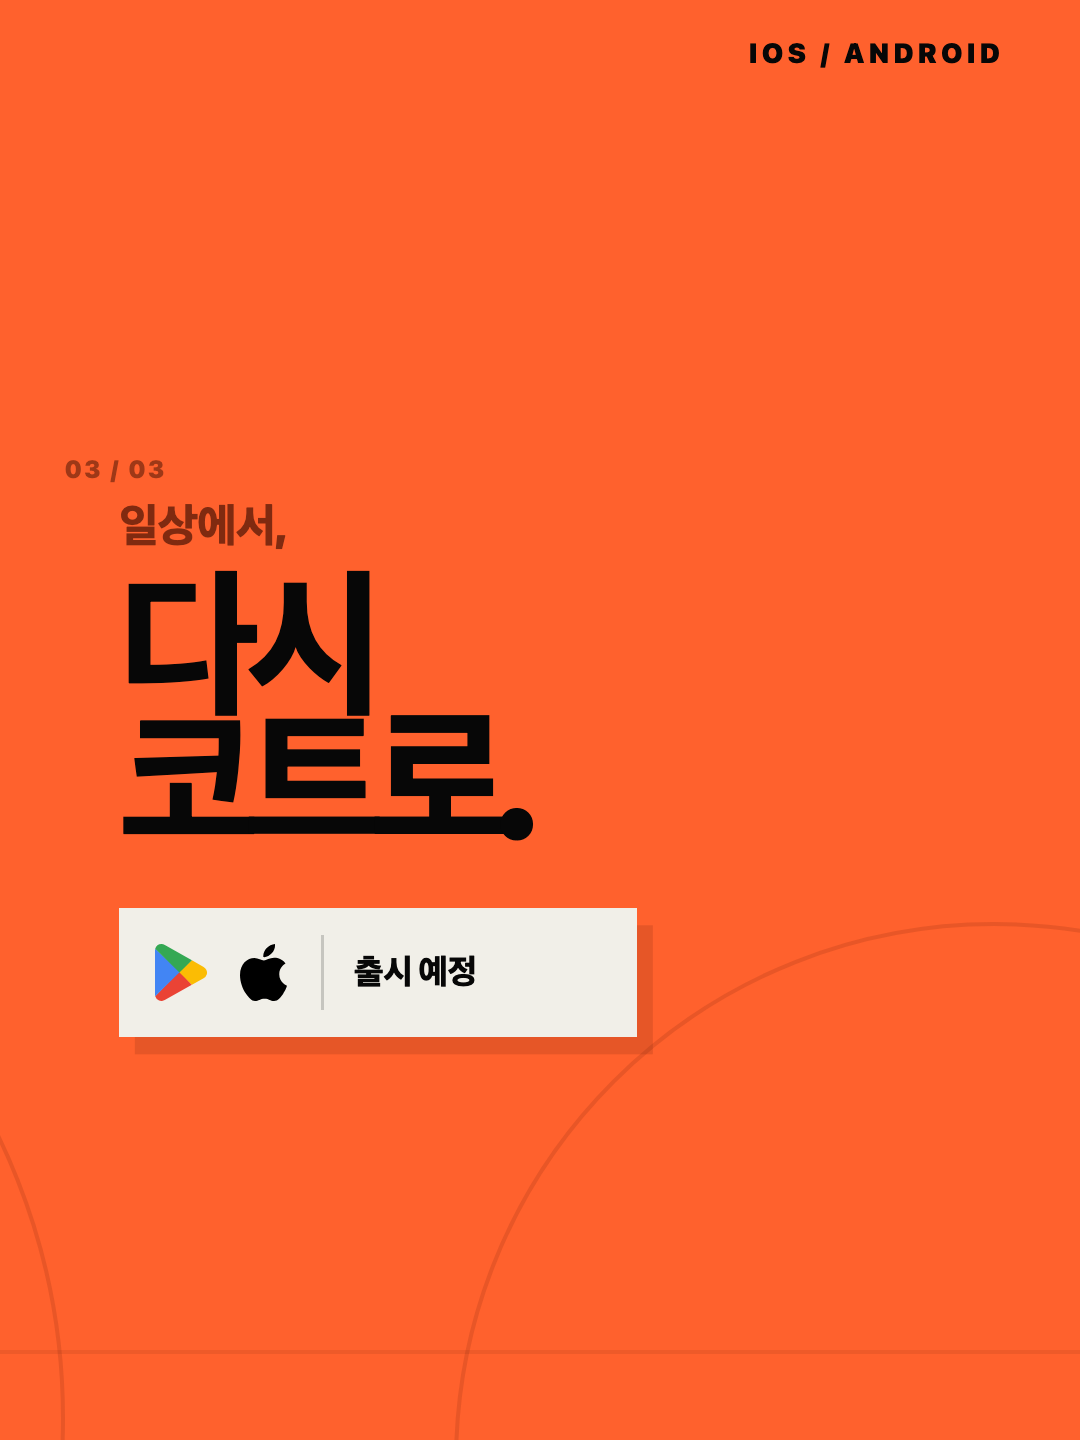
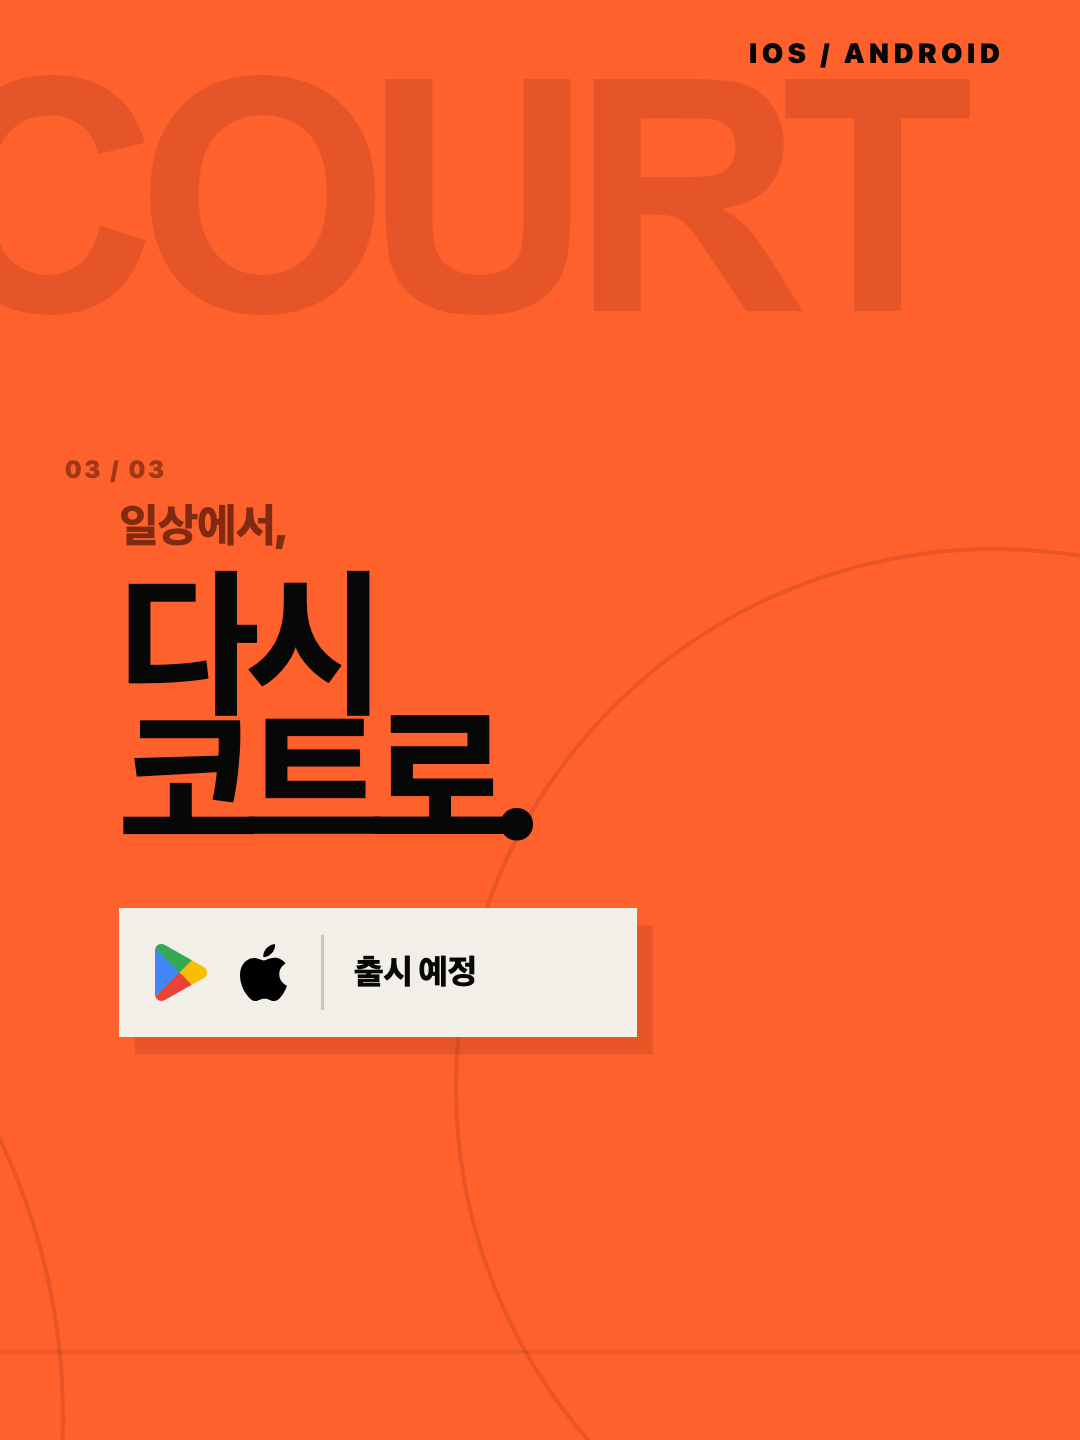
Balance right triptych panel

Changed region(s): [[0.0, 0.0312, 0.9167, 0.2188]]

diff --git a/Backcourt-Social/triptych.css b/Backcourt-Social/triptych.css
@@ -15,7 +15,7 @@ a { color: inherit; text-decoration: none; }
 .meta span { color:#8c8c8c; }
 .triptych-shell { width:100%; aspect-ratio:9/4; overflow:hidden; container-type:size; background:var(--orange); border:1px solid #292929; box-shadow:0 20px 50px rgba(0,0,0,.28); }
 .triptych { position:relative; width:100%; height:100%; overflow:hidden; color:var(--ink); background:var(--orange); letter-spacing:-.045em; }
-.mega-type { position:absolute; z-index:0; top:3.75cqh; left:13.5cqh; display:flex; align-items:flex-start; gap:6cqh; color:rgba(117,38,14,.19); font-family:Arial,"Apple SD Gothic Neo",sans-serif; font-size:22.5cqh; line-height:.9; font-weight:950; letter-spacing:-.08em; white-space:nowrap; }
+.mega-type { position:absolute; z-index:0; top:3.75cqh; left:9cqh; width:207cqh; display:flex; align-items:flex-start; justify-content:space-between; color:rgba(117,38,14,.19); font-family:Arial,"Apple SD Gothic Neo",sans-serif; font-size:22.5cqh; line-height:.9; font-weight:950; letter-spacing:-.08em; white-space:nowrap; }
 .platform { position:absolute; z-index:3; top:2.55cqh; right:5.25cqh; font-size:1.9cqh; font-weight:950; letter-spacing:.16em; }
 .edition { position:absolute; z-index:3; left:4.5cqh; top:2.55cqh; color:rgba(117,38,14,.9); font-size:1.75cqh; font-weight:950; letter-spacing:.13em; }
 .panel-number { position:absolute; z-index:3; top:31.5cqh; color:rgba(117,38,14,.7); font-size:1.7cqh; font-weight:900; letter-spacing:.1em; }
@@ -39,7 +39,7 @@ a { color: inherit; text-decoration: none; }
 .court-lines i, .court-lines b, .court-lines em { position:absolute; z-index:1; display:block; border:.28cqh solid rgba(117,38,14,.17); border-radius:50%; }
 .court-lines i { left:-28.5cqh; bottom:-37.5cqh; width:75cqh; height:75cqh; }
 .court-lines b { left:64.5cqh; bottom:-43.5cqh; width:90cqh; height:90cqh; }
-.court-lines em { right:-31.5cqh; bottom:-39cqh; width:75cqh; height:75cqh; }
+.court-lines em { right:-31.5cqh; bottom:-13cqh; width:75cqh; height:75cqh; }
 .baseline { position:absolute; z-index:1; left:0; right:0; bottom:6cqh; height:.22cqh; background:rgba(117,38,14,.12); }
 .grid-guides i, .grid-guides b { position:absolute; z-index:8; top:0; bottom:0; width:1px; border-left:1px dashed rgba(7,7,7,.18); }
 .grid-guides i { left:75cqh; }
